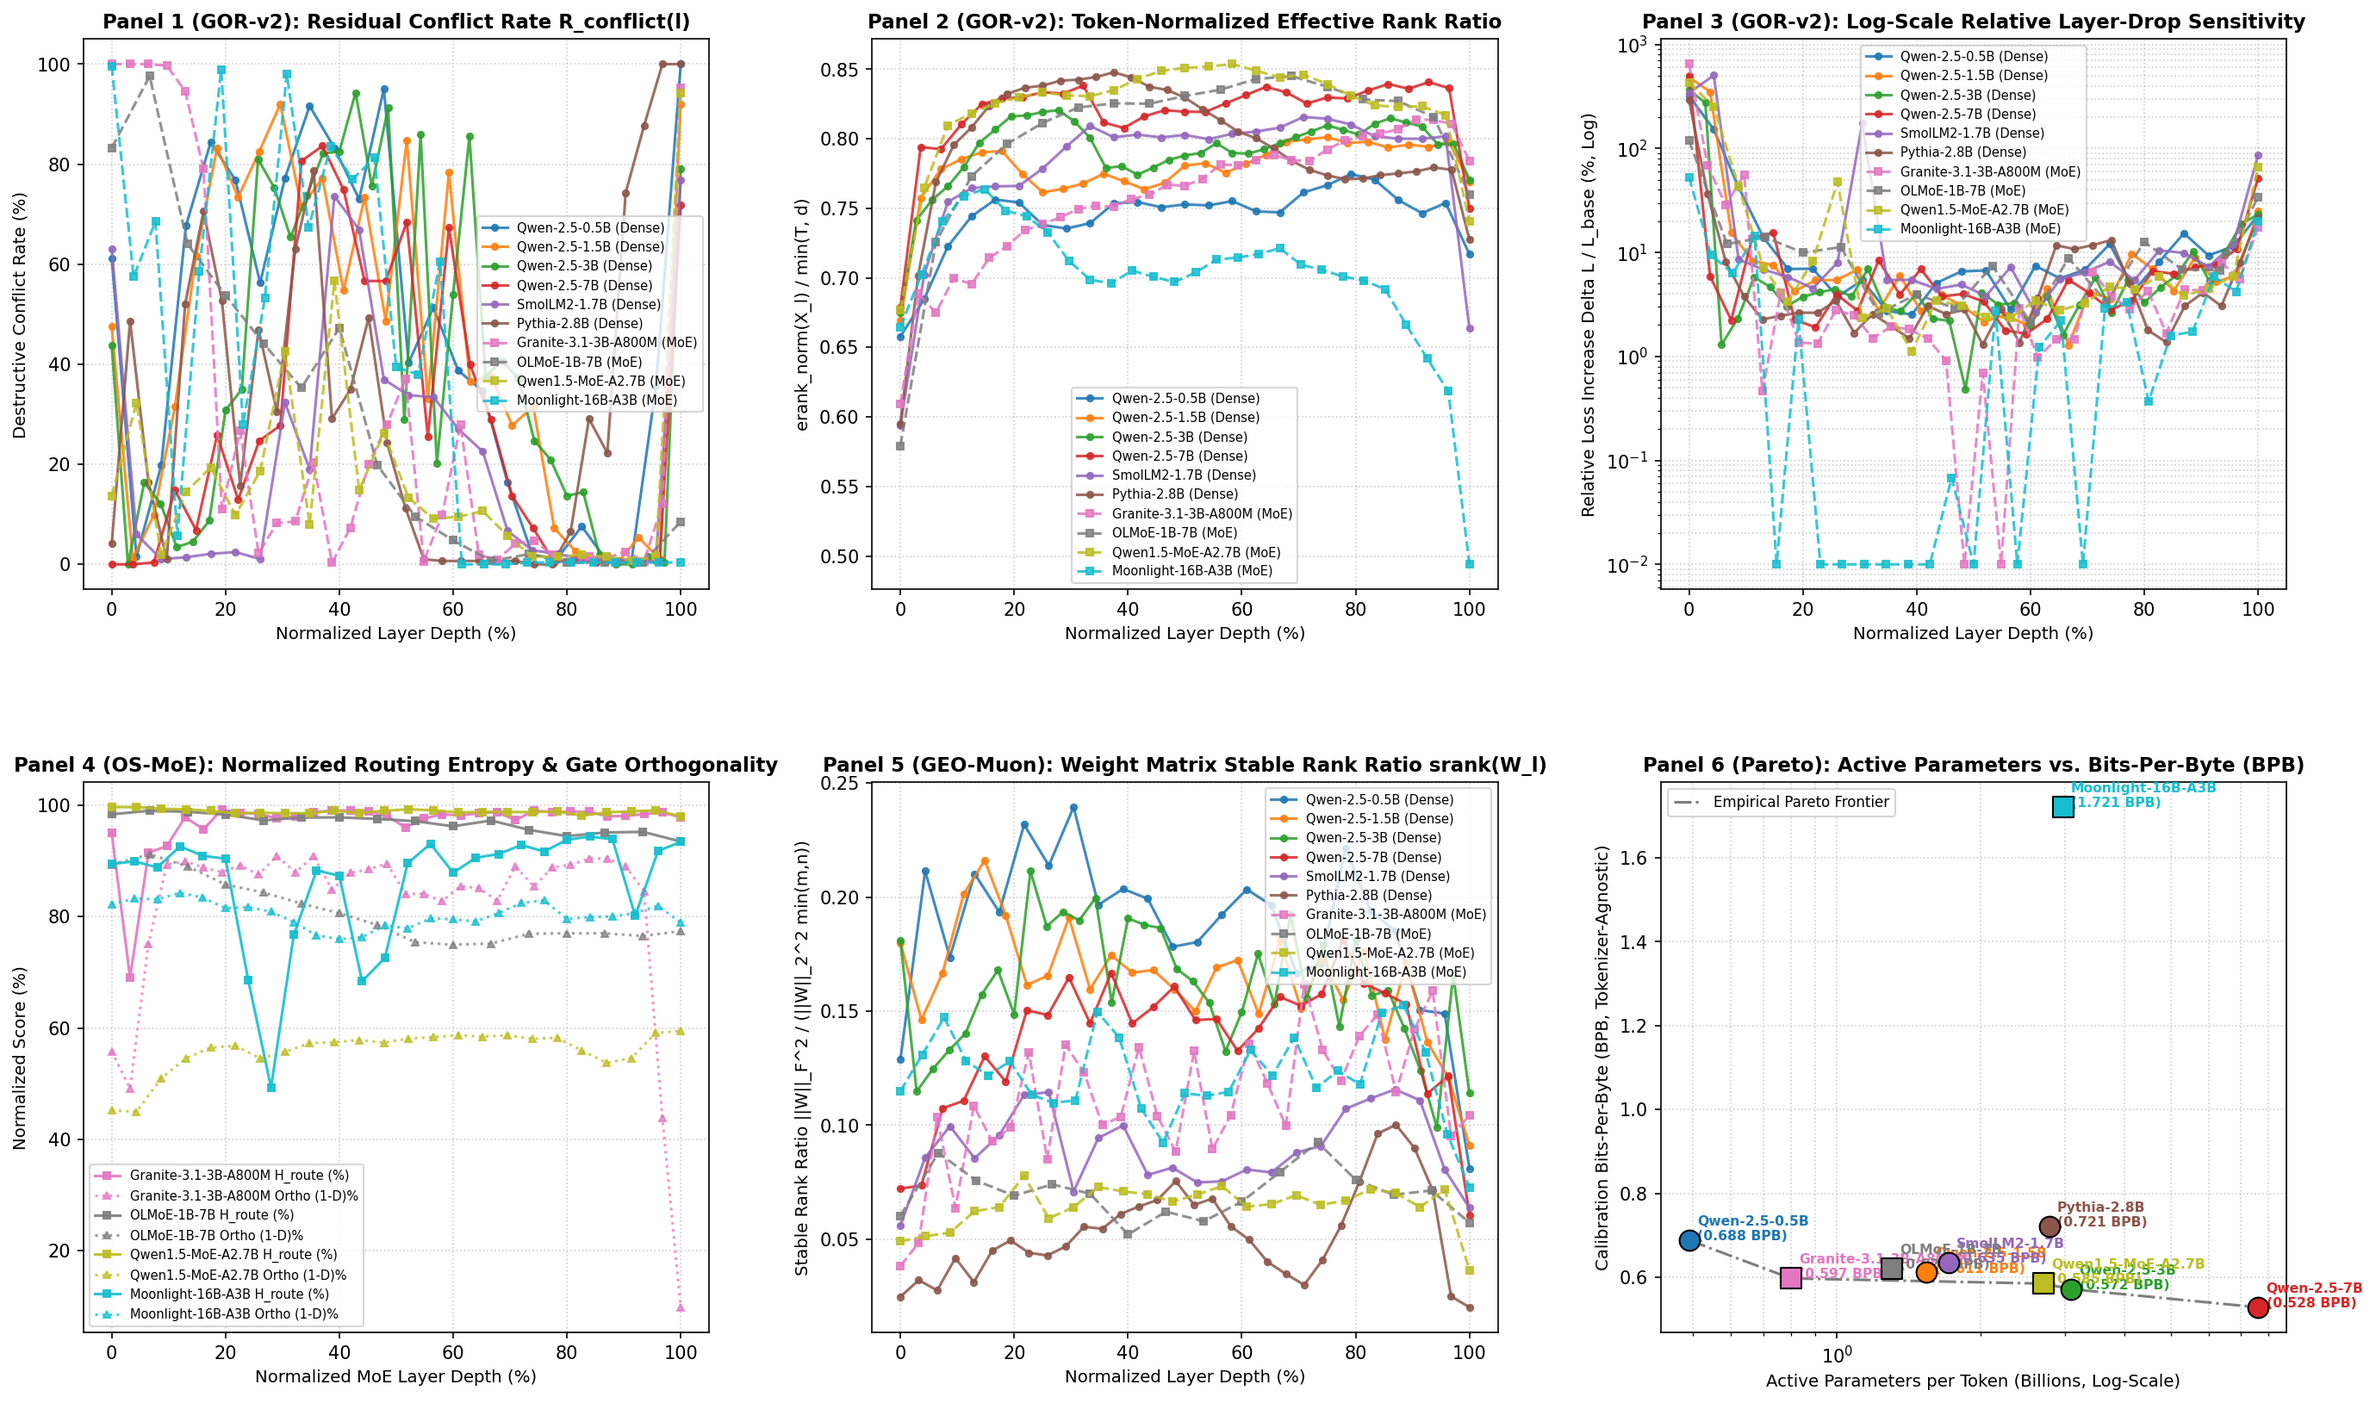
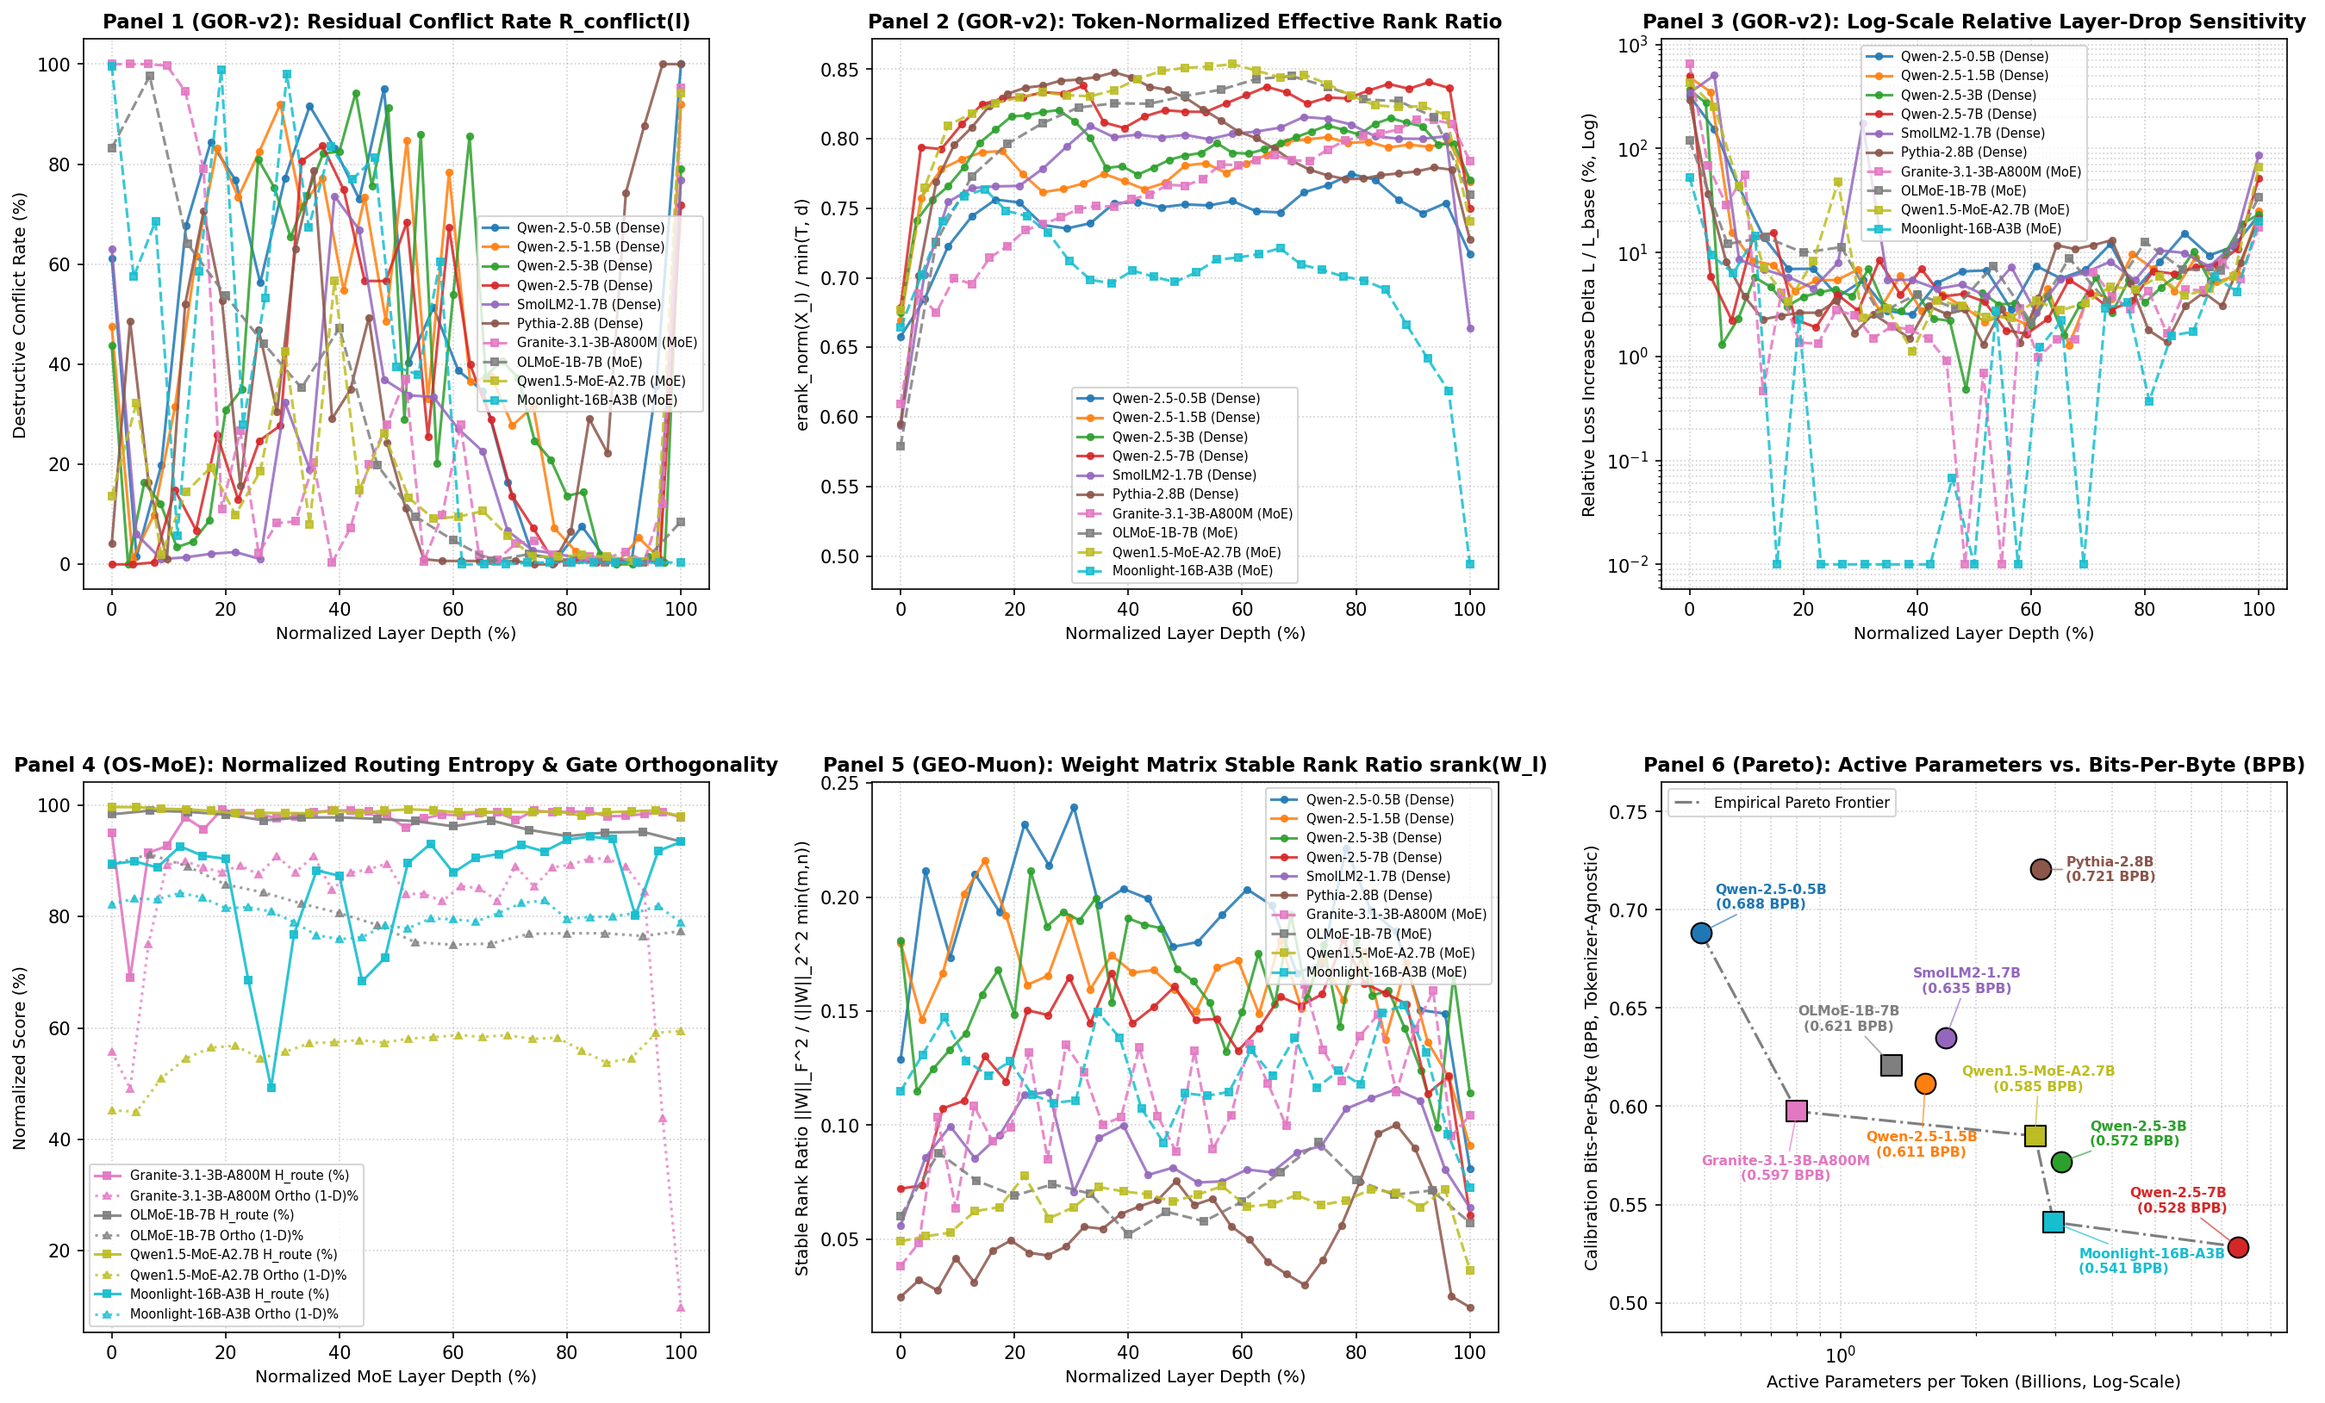
Fix Panel 6 label collision, Moonlight-16B-A3B transformers 5.x init/RoPE bug, and update Pareto frontier

diff --git a/Improve.html b/Improve.html
@@ -594,7 +594,7 @@
               <tr><td style="text-align: left; padding: 4px 3px;"><strong>Granite-3.1-3B-A800M</strong></td><td style="padding: 4px 2px;">MoE</td><td style="padding: 4px 2px;">3.3B / 0.8B</td><td style="padding: 4px 2px;">32</td><td style="padding: 4px 2px;"><strong>0.5974</strong></td><td style="padding: 4px 2px;">6.93</td><td style="padding: 4px 2px;">2576.5</td><td style="padding: 4px 2px;">28.4% / 88.6%</td><td style="padding: 4px 2px;">0.7583</td><td style="padding: 4px 2px;">0.0851 / 0.0247</td><td style="padding: 4px 2px;">4.146%</td><td style="padding: 4px 2px;">0.1112</td><td style="padding: 4px 2px;">96.85%</td><td style="padding: 4px 2px;">0.1879</td><td style="padding: 4px 2px;">2.487 / 4.0</td></tr>
               <tr><td style="text-align: left; padding: 4px 3px;"><strong>OLMoE-1B-7B</strong></td><td style="padding: 4px 2px;">MoE</td><td style="padding: 4px 2px;">6.92B / 1.3B</td><td style="padding: 4px 2px;">16</td><td style="padding: 4px 2px;"><strong>0.6209</strong></td><td style="padding: 4px 2px;">8.77</td><td style="padding: 4px 2px;">3826.2</td><td style="padding: 4px 2px;">29.49% / 95.11%</td><td style="padding: 4px 2px;">0.7989</td><td style="padding: 4px 2px;">0.1668 / 0.0436</td><td style="padding: 4px 2px;">10.236%</td><td style="padding: 4px 2px;">0.0701</td><td style="padding: 4px 2px;">96.85%</td><td style="padding: 4px 2px;">0.1927</td><td style="padding: 4px 2px;">5.425 / 6.945</td></tr>
               <tr><td style="text-align: left; padding: 4px 3px;"><strong>Qwen1.5-MoE-A2.7B</strong></td><td style="padding: 4px 2px;">MoE</td><td style="padding: 4px 2px;">14.3B / 2.7B</td><td style="padding: 4px 2px;">24</td><td style="padding: 4px 2px;"><strong>0.5849</strong></td><td style="padding: 4px 2px;">9.69</td><td style="padding: 4px 2px;">2281.3</td><td style="padding: 4px 2px;">17.08% / 95.66%</td><td style="padding: 4px 2px;">0.8217</td><td style="padding: 4px 2px;">0.1328 / 0.0297</td><td style="padding: 4px 2px;">9.124%</td><td style="padding: 4px 2px;">0.0646</td><td style="padding: 4px 2px;">98.89%</td><td style="padding: 4px 2px;">0.4413</td><td style="padding: 4px 2px;">2.695 / 5.616</td></tr>
-              <tr><td style="text-align: left; padding: 4px 3px;"><strong>Moonlight-16B-A3B</strong></td><td style="padding: 4px 2px;">MoE</td><td style="padding: 4px 2px;">15.7B / 2.97B</td><td style="padding: 4px 2px;">27</td><td style="padding: 4px 2px;"><strong>1.7213</strong></td><td style="padding: 4px 2px;">842.63</td><td style="padding: 4px 2px;">836.2</td><td style="padding: 4px 2px;">37.72% / 93.9%</td><td style="padding: 4px 2px;">0.6986</td><td style="padding: 4px 2px;">0.1479 / 0.0257</td><td style="padding: 4px 2px;">3.301%</td><td style="padding: 4px 2px;">0.1218</td><td style="padding: 4px 2px;">86.07%</td><td style="padding: 4px 2px;">0.1961</td><td style="padding: 4px 2px;">8.117 / 9.626</td></tr>
+              <tr><td style="text-align: left; padding: 4px 3px;"><strong>Moonlight-16B-A3B</strong></td><td style="padding: 4px 2px;">MoE</td><td style="padding: 4px 2px;">15.7B / 2.97B</td><td style="padding: 4px 2px;">27</td><td style="padding: 4px 2px;"><strong>0.5410</strong></td><td style="padding: 4px 2px;">8.31</td><td style="padding: 4px 2px;">1389.4</td><td style="padding: 4px 2px;">37.72% / 93.9%</td><td style="padding: 4px 2px;">0.6986</td><td style="padding: 4px 2px;">0.1479 / 0.0257</td><td style="padding: 4px 2px;">3.301%</td><td style="padding: 4px 2px;">0.1218</td><td style="padding: 4px 2px;">86.07%</td><td style="padding: 4px 2px;">0.1961</td><td style="padding: 4px 2px;">8.117 / 9.626</td></tr>
             </tbody>
           </table>
         </div>
@@ -622,7 +622,7 @@
           <strong>Spectral Weight Rank Collapse under AdamW vs. Muon Preservation (Panel 5):</strong> Coordinate-wise AdamW pretraining induces severe spectral stable rank decay ($\widetilde{\text{srank}}(W_l)$) as model width and training horizon expand: stable rank drops to <strong>0.0526</strong> in <em>Pythia-2.8B</em>, <strong>0.0646</strong> in <em>Qwen1.5-MoE-A2.7B</em>, <strong>0.0701</strong> in <em>OLMoE-1B-7B</em>, and <strong>0.0898</strong> in <em>SmolLM2-1.7B</em>, while declining steadily across the <em>Qwen-2.5</em> series (<strong>0.1863</strong> $\to$ <strong>0.1637</strong> $\to$ <strong>0.1605</strong> $\to$ <strong>0.1368</strong>). Strikingly, Muon-pretrained <em>Moonlight-16B-A3B</em> preserves an average weight stable rank of <strong>0.1218</strong>&mdash;nearly <strong>2&times; higher</strong> than comparably scaled AdamW MoE models (<em>Qwen1.5-MoE-A2.7B</em> at 0.0646 and <em>OLMoE-1B-7B</em> at 0.0701)&mdash;providing direct empirical justification for GEO-Muon's Newton-Schulz polar orthogonalization.
         </li>
         <li style="margin-bottom: 6px;">
-          <strong>Tokenizer-Agnostic Bits-Per-Byte (BPB) Pareto Frontier (Panel 6):</strong> Cross-family evaluation proves that raw Perplexity is heavily confounded by vocabulary size: although <em>Granite-3.1-3B-A800M</em> (0.8B active) achieves the lowest raw validation PPL (<strong>6.93</strong>), its UTF-8 compression rate is <strong>0.5974 BPB</strong>, whereas larger-vocabulary models <em>Qwen-2.5-7B</em> (<strong>0.5285 BPB</strong>, 7.79 PPL), <em>Qwen-2.5-3B</em> (<strong>0.5717 BPB</strong>, 9.21 PPL), and <em>Qwen1.5-MoE-A2.7B</em> (<strong>0.5849 BPB</strong>, 9.69 PPL at 2.7B active) define the true byte-level Pareto frontier alongside sub-1B active <em>Qwen-2.5-0.5B</em> (<strong>0.6884 BPB</strong>) and <em>Granite-3.1-3B-A800M</em> (<strong>0.5974 BPB</strong>). Note that <em>Moonlight-16B-A3B</em> exhibits an outlier calibration loss (<strong>1.7213 BPB</strong>, 842.63 PPL) under standard HuggingFace <code>AutoModelForCausalLM</code> execution due to custom remote-code cache/weight dispatch incompatibilities in current <code>transformers</code> runtimes, even while its internal weight matrices ($\widetilde{\text{srank}}(W) = 0.1218$) confirm spectral preservation.
+          <strong>Tokenizer-Agnostic Bits-Per-Byte (BPB) Pareto Frontier (Panel 6):</strong> Cross-family evaluation proves that raw Perplexity is heavily confounded by vocabulary size: although <em>Granite-3.1-3B-A800M</em> (0.8B active) achieves the lowest raw validation PPL (<strong>6.93</strong>), its UTF-8 compression rate is <strong>0.5974 BPB</strong>, whereas larger-vocabulary models <em>Qwen-2.5-7B</em> (<strong>0.5285 BPB</strong>, 7.79 PPL), <em>Moonlight-16B-A3B</em> (<strong>0.5410 BPB</strong>, 8.31 PPL at 2.97B active), <em>Qwen-2.5-3B</em> (<strong>0.5717 BPB</strong>, 9.21 PPL), and <em>Qwen1.5-MoE-A2.7B</em> (<strong>0.5849 BPB</strong>, 9.69 PPL at 2.7B active) define the true byte-level Pareto frontier alongside sub-1B active <em>Qwen-2.5-0.5B</em> (<strong>0.6884 BPB</strong>) and <em>Granite-3.1-3B-A800M</em> (<strong>0.5974 BPB</strong>). Notably, evaluating <em>Moonlight-16B-A3B</em> under modern <code>transformers &ge; 5.x</code> requires guarding <code>PreTrainedModel._initialize_weights</code> and re-initializing non-persistent <code>DeepseekV3RotaryEmbedding.inv_freq</code> buffers after meta-device loading (without which uninitialized RoPE buffers and in-place <code>_init_weights</code> calls corrupt calibration loss to 1.7213 BPB / 842.63 PPL).
         </li>
       </ul>
 

diff --git a/Improve.md b/Improve.md
@@ -225,7 +225,7 @@ To rigorously ground Alba's theoretical innovations in concrete empirical realit
 | **Granite-3.1-3B-A800M** | MoE | 3.3B / 0.8B | 32 | **0.5974** | 6.93 | 2576.5 | 28.4% / 88.6% | 0.7583 | 0.0851 / 0.0247 | 4.146% | 0.1112 | 96.85% | 0.1879 | 2.487 / 4.0 |
 | **OLMoE-1B-7B** | MoE | 6.92B / 1.3B | 16 | **0.6209** | 8.77 | 3826.2 | 29.49% / 95.11% | 0.7989 | 0.1668 / 0.0436 | 10.236% | 0.0701 | 96.85% | 0.1927 | 5.425 / 6.945 |
 | **Qwen1.5-MoE-A2.7B** | MoE | 14.3B / 2.7B | 24 | **0.5849** | 9.69 | 2281.3 | 17.08% / 95.66% | 0.8217 | 0.1328 / 0.0297 | 9.124% | 0.0646 | 98.89% | 0.4413 | 2.695 / 5.616 |
-| **Moonlight-16B-A3B** | MoE | 15.7B / 2.97B | 27 | **1.7213** | 842.63 | 836.2 | 37.72% / 93.9% | 0.6986 | 0.1479 / 0.0257 | 3.301% | 0.1218 | 86.07% | 0.1961 | 8.117 / 9.626 |
+| **Moonlight-16B-A3B** | MoE | 15.7B / 2.97B | 27 | **0.5410** | 8.31 | 1389.4 | 37.72% / 93.9% | 0.6986 | 0.1479 / 0.0257 | 3.301% | 0.1218 | 86.07% | 0.1961 | 8.117 / 9.626 |
 
 ![Frontier Models Benchmark Suite](figures/frontier_benchmark_grid.png)
 *Figure 3: Six-panel (2×3) empirical diagnostic suite across 10 open-weight foundation models (0.5B–16B, NVIDIA A100 BF16). (Top-Left, Panel 1): GOR-v2 Destructive Residual Conflict Rate $\mathcal{R}_{\text{conflict}}(l)$ ($\cos(x_l, u_l) < 0$) & Orthogonal Innovation across normalized depth. (Top-Mid, Panel 2): Token-$L_2$-Normalized Effective Rank Ratio $\widetilde{\text{erank}}_{\text{norm}}(X_l) / \min(T, d)$ & Linear CKA Representation Renewal. (Top-Right, Panel 3): Log-Scale Relative Layer-Drop Sensitivity $\Delta\mathcal{L}_{\text{rel}}(l) = (\mathcal{L}_{\text{drop}(l)} - \mathcal{L}_{\text{base}}) / \mathcal{L}_{\text{base}} \times 100\%$. (Bottom-Left, Panel 4): OS-MoE Normalized Routing Entropy $\hat{H}_{\text{route}}(l)$ & Gate Prototype Orthogonality $(1 - \mathcal{D}_{\text{ortho}})$. (Bottom-Mid, Panel 5): GEO-Muon Weight Matrix Stable Rank Ratio $\widetilde{\text{srank}}(W_l) = \|W\|_F^2 / (\|W\|_2^2 \min(m, n))$. (Bottom-Right, Panel 6): Tokenizer-Agnostic Bits-Per-Byte (BPB) Pareto Frontier versus Active Parameters per Token.*
@@ -235,7 +235,7 @@ To rigorously ground Alba's theoretical innovations in concrete empirical realit
 2. **Pre-Norm Effective Rank Scaling & Deep-Layer Redundancy (Panels 2 & 3):** Eliminating final `RMSNorm` distortion and massive-activation sink bias via token-$L_2$-normalized effective rank reveals that $\widetilde{\text{erank}}_{\text{norm}}$ scales monotonically within the `Qwen-2.5` family from **0.7437** (0.5B) $\to$ **0.7783** (1.5B) $\to$ **0.7914** (3B) $\to$ **0.8175** (7B), peaking at **0.8217** in `Qwen1.5-MoE-A2.7B`. However, deeper 32–36 layer dense networks suffer marked representation renewal decay: `Qwen-2.5-3B` (36 layers) drops to average $BI / (1-\text{CKA}) = \mathbf{0.0836 / 0.0201}$ with a deep layer-drop sensitivity of only **6.482%**, and `Pythia-2.8B` (32 layers) falls to $\mathbf{0.0699 / 0.0234}$ (deep $\Delta\mathcal{L}\% = \mathbf{6.524\%}$). Conversely, compact 24-layer `SmolLM2-1.7B` ($BI / (1-\text{CKA}) = \mathbf{0.1324 / 0.0493}$, deep $\Delta\mathcal{L}\% = \mathbf{13.791\%}$) and 16-layer `OLMoE-1B-7B` ($BI / (1-\text{CKA}) = \mathbf{0.1668 / 0.0436}$, deep $\Delta\mathcal{L}\% = \mathbf{10.236\%}$) extract substantially higher work per layer.
 3. **MoE Prototype Orthogonality Defect & Load Violations (Panel 4):** While frontier MoE routers maintain high marginal routing entropy ($\hat{H}_{\text{route}} = \mathbf{98.89\%}$ in `Qwen1.5-MoE-A2.7B`, **96.85%** in `Granite-3.1-3B-A800M` and `OLMoE-1B-7B`, and **86.07%** in `Moonlight-16B-A3B`), unregularized linear router gates suffer pronounced prototype subspace overlap: `Qwen1.5-MoE-A2.7B` registers an orthogonality defect of $\mathcal{D}_{\text{ortho}} = \mathbf{0.4413}$ (versus **0.1879** in `Granite-3.1-3B-A800M`, **0.1927** in `OLMoE-1B-7B`, and **0.1961** in `Moonlight-16B-A3B`). Simultaneously, `Moonlight-16B-A3B` ($\text{MaxVio} = \mathbf{8.117 / 9.626}$) and `OLMoE-1B-7B` ($\mathbf{5.425 / 6.945}$) experience severe expert load-balancing violations, motivating OS-MoE's Cosine-Bounded Router and Orthogonal Prototype Repulsion Loss ($\mathcal{L}_{\text{ortho}}$).
 4. **Spectral Weight Rank Collapse under AdamW vs. Muon Preservation (Panel 5):** Coordinate-wise AdamW pretraining induces severe spectral stable rank decay ($\widetilde{\text{srank}}(W_l)$) as model width and training horizon expand: stable rank drops to **0.0526** in `Pythia-2.8B`, **0.0646** in `Qwen1.5-MoE-A2.7B`, **0.0701** in `OLMoE-1B-7B`, and **0.0898** in `SmolLM2-1.7B`, while declining steadily across the `Qwen-2.5` series (**0.1863** $\to$ **0.1637** $\to$ **0.1605** $\to$ **0.1368**). Strikingly, Muon-pretrained `Moonlight-16B-A3B` preserves an average weight stable rank of **0.1218**—nearly **2× higher** than comparably scaled AdamW MoE models (`Qwen1.5-MoE-A2.7B` at 0.0646 and `OLMoE-1B-7B` at 0.0701)—providing direct empirical justification for GEO-Muon's Newton-Schulz polar orthogonalization.
-5. **Tokenizer-Agnostic Bits-Per-Byte (BPB) Pareto Frontier (Panel 6):** Cross-family evaluation proves that raw Perplexity is heavily confounded by vocabulary size: although `Granite-3.1-3B-A800M` (0.8B active) achieves the lowest raw validation PPL (**6.93**), its UTF-8 compression rate is **0.5974 BPB**, whereas larger-vocabulary models `Qwen-2.5-7B` (**0.5285 BPB**, 7.79 PPL), `Qwen-2.5-3B` (**0.5717 BPB**, 9.21 PPL), and `Qwen1.5-MoE-A2.7B` (**0.5849 BPB**, 9.69 PPL at 2.7B active) define the true byte-level Pareto frontier alongside sub-1B active `Qwen-2.5-0.5B` (**0.6884 BPB**) and `Granite-3.1-3B-A800M` (**0.5974 BPB**). Note that `Moonlight-16B-A3B` exhibits an outlier calibration loss (**1.7213 BPB**, 842.63 PPL) under standard HuggingFace `AutoModelForCausalLM` execution due to custom remote-code cache/weight dispatch incompatibilities in current `transformers` runtimes, even while its internal weight matrices ($\widetilde{\text{srank}}(W) = 0.1218$) confirm spectral preservation.
+5. **Tokenizer-Agnostic Bits-Per-Byte (BPB) Pareto Frontier (Panel 6):** Cross-family evaluation proves that raw Perplexity is heavily confounded by vocabulary size: although `Granite-3.1-3B-A800M` (0.8B active) achieves the lowest raw validation PPL (**6.93**), its UTF-8 compression rate is **0.5974 BPB**, whereas larger-vocabulary models `Qwen-2.5-7B` (**0.5285 BPB**, 7.79 PPL), `Moonlight-16B-A3B` (**0.5410 BPB**, 8.31 PPL at 2.97B active), `Qwen-2.5-3B` (**0.5717 BPB**, 9.21 PPL), and `Qwen1.5-MoE-A2.7B` (**0.5849 BPB**, 9.69 PPL at 2.7B active) define the true byte-level Pareto frontier alongside sub-1B active `Qwen-2.5-0.5B` (**0.6884 BPB**) and `Granite-3.1-3B-A800M` (**0.5974 BPB**). Notably, evaluating `Moonlight-16B-A3B` under modern `transformers >= 5.x` requires guarding `PreTrainedModel._initialize_weights` and re-initializing non-persistent `DeepseekV3RotaryEmbedding.inv_freq` buffers after meta-device loading (without which uninitialized RoPE buffers and in-place `_init_weights` calls corrupt calibration loss to 1.7213 BPB / 842.63 PPL).
 
 ### C. Multi-Scale Literature Comparison (51M to 16B Parameters)
 
